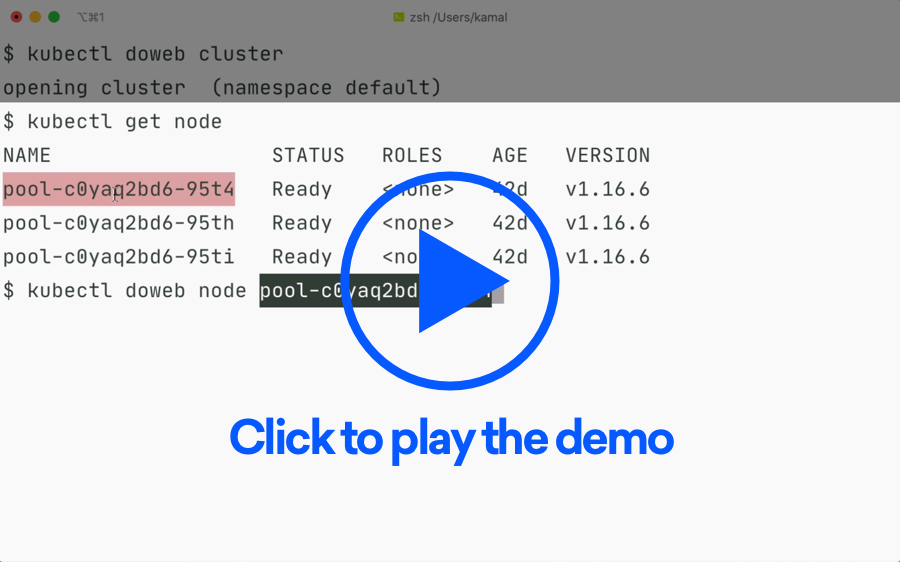
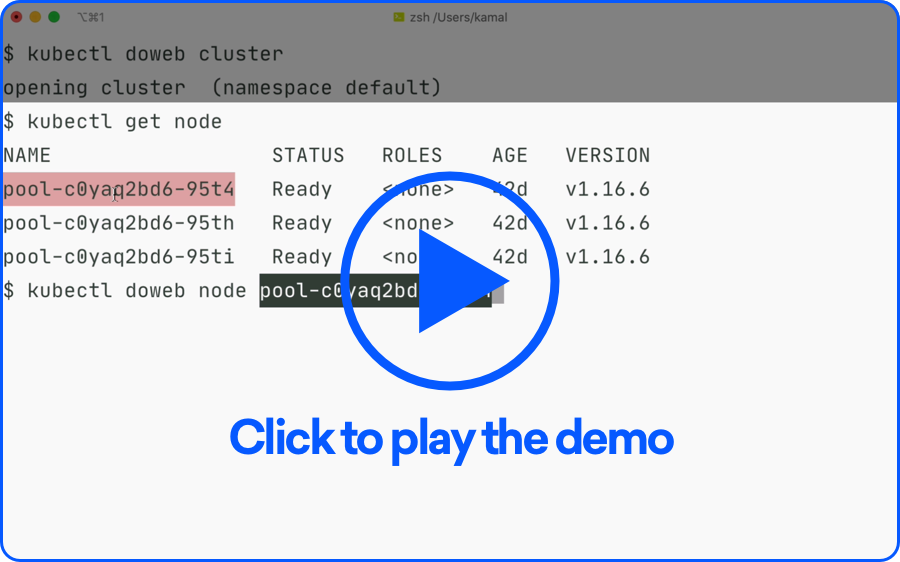
add demo

Changed region(s): [[0.0, 0.0, 1.0, 1.0]]

diff --git a/README.md b/README.md
@@ -15,7 +15,7 @@ Usage: `kubectl doweb <resource type> <resource name>`
 | PersistentVolumeClaim | If bound, prints the Volume name and opens the Volumes page  |
 
 <p align="center">
-  <a href="https://do.co/kubectl-doweb-demo"><img width="900" src="/demo.png?v=1" alt="screenshot of a video demoing kubectl-doweb"></a>
+  <a href="https://do.co/kubectl-doweb-demo"><img width="450" src="/demo.png?v=2" alt="screenshot of a video demoing kubectl-doweb"></a>
 </p>
 
 ## Installation
